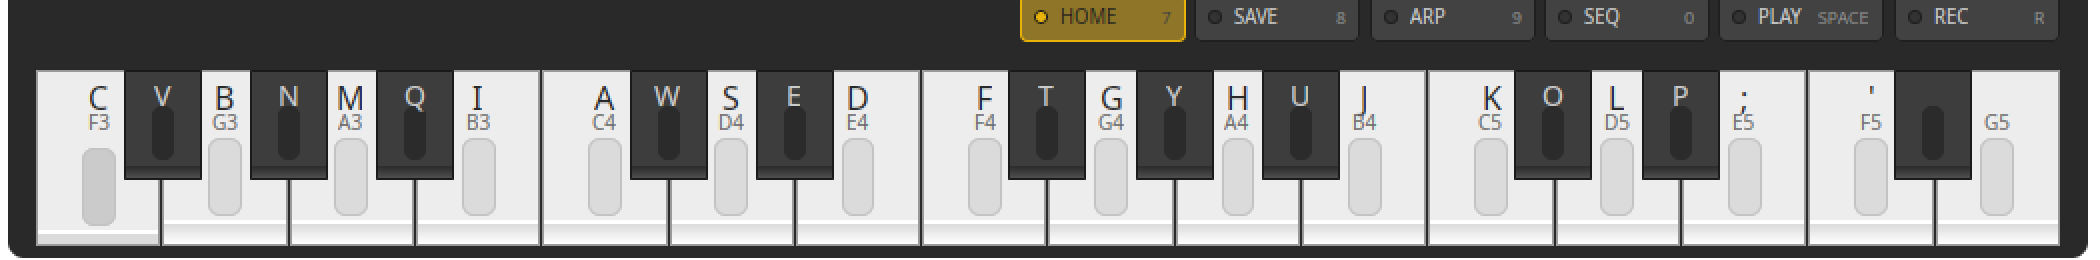
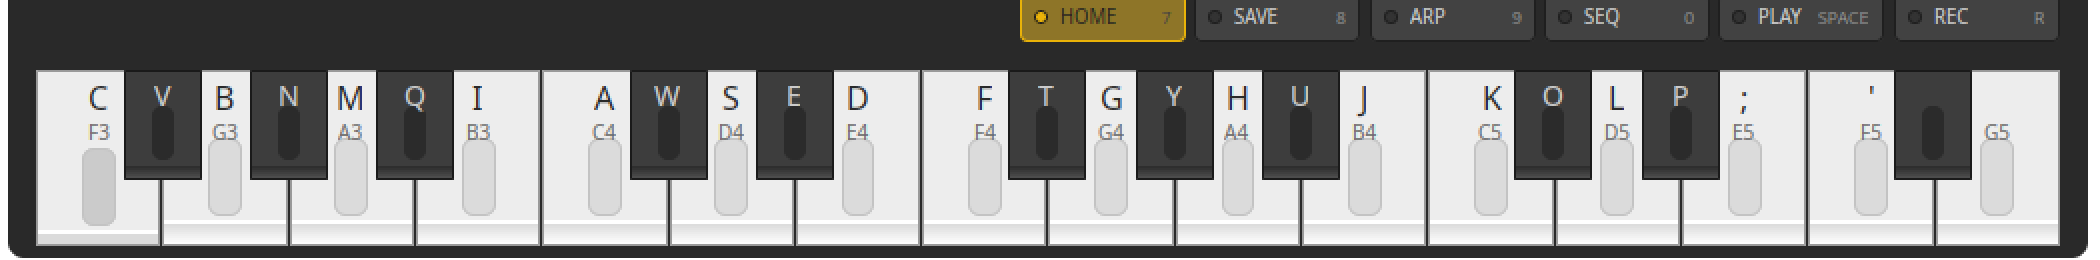
Add breathing room between the key labels
Increase the hint-to-note gap to 6px and refresh the screenshots.

diff --git a/fm1-grid-app/src/panel.rs b/fm1-grid-app/src/panel.rs
@@ -32,7 +32,7 @@ const KEY_LED_MAX_FRAC: f32 = 0.5;
 /// The LED window sits this far above the key's lip.
 const KEY_LED_LIP_GAP: f32 = 4.0;
 const KEY_LABEL_TOP: f32 = 0.0;
-const KEY_LABEL_GAP: f32 = 1.0;
+const KEY_LABEL_GAP: f32 = 6.0;
 const WHITE_HINT_SIZE: f32 = 16.0;
 const BLACK_HINT_SIZE: f32 = 14.0;
 const KEY_NOTE_SIZE: f32 = 10.0;
